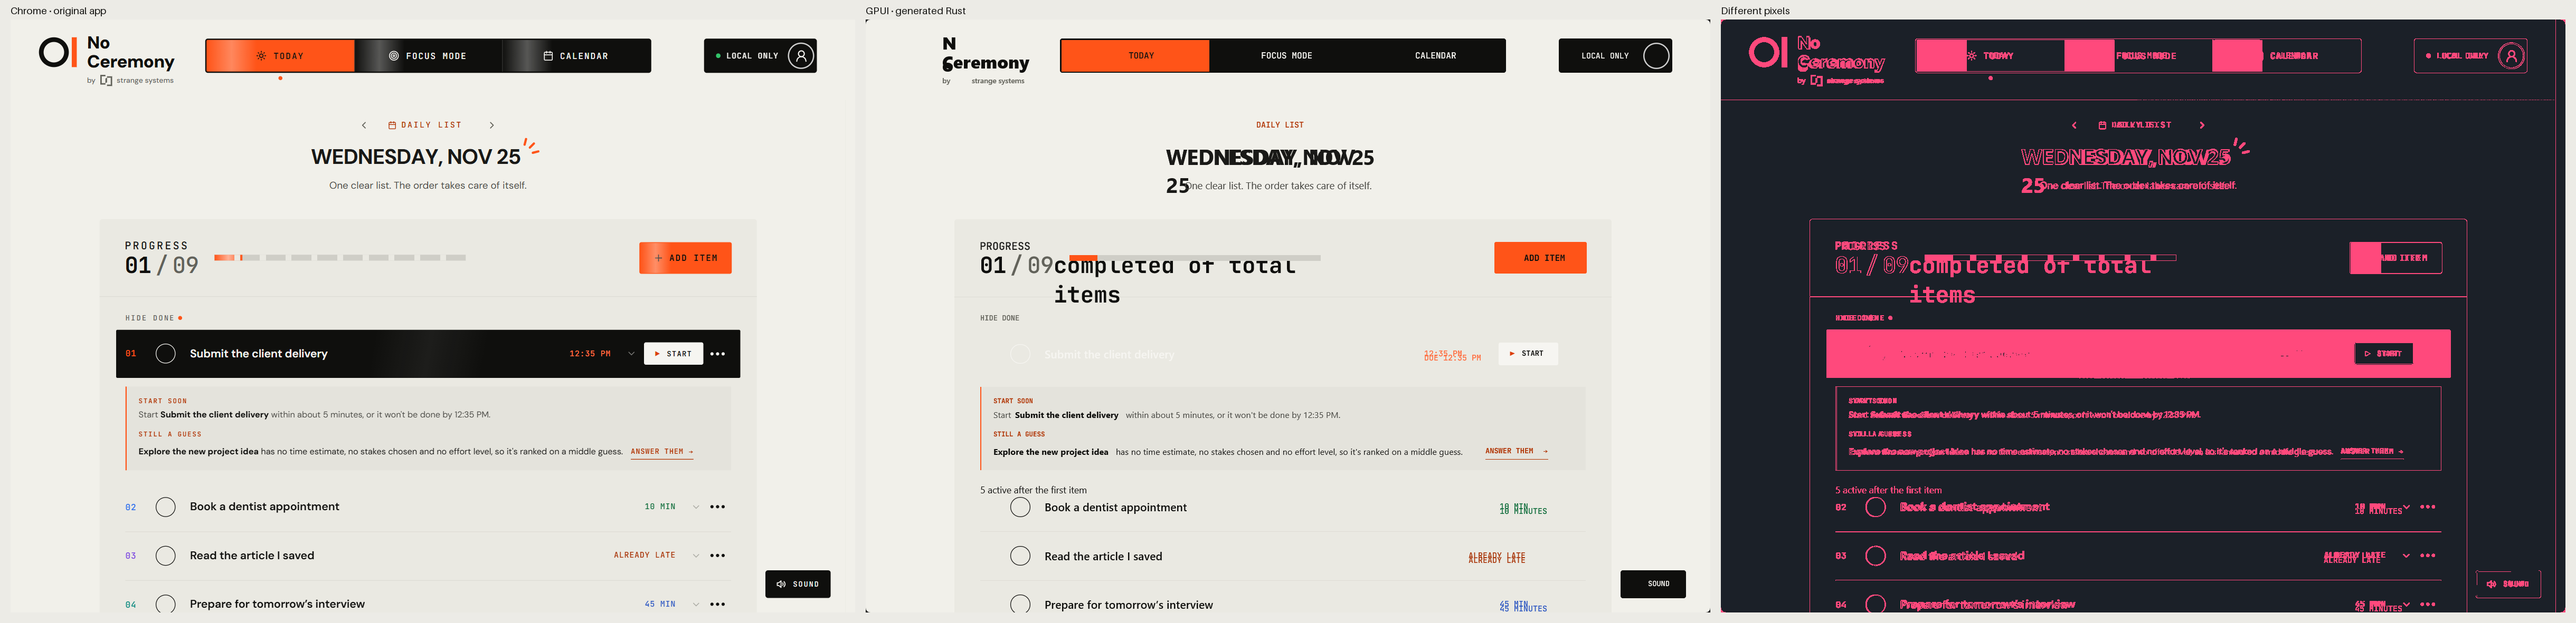
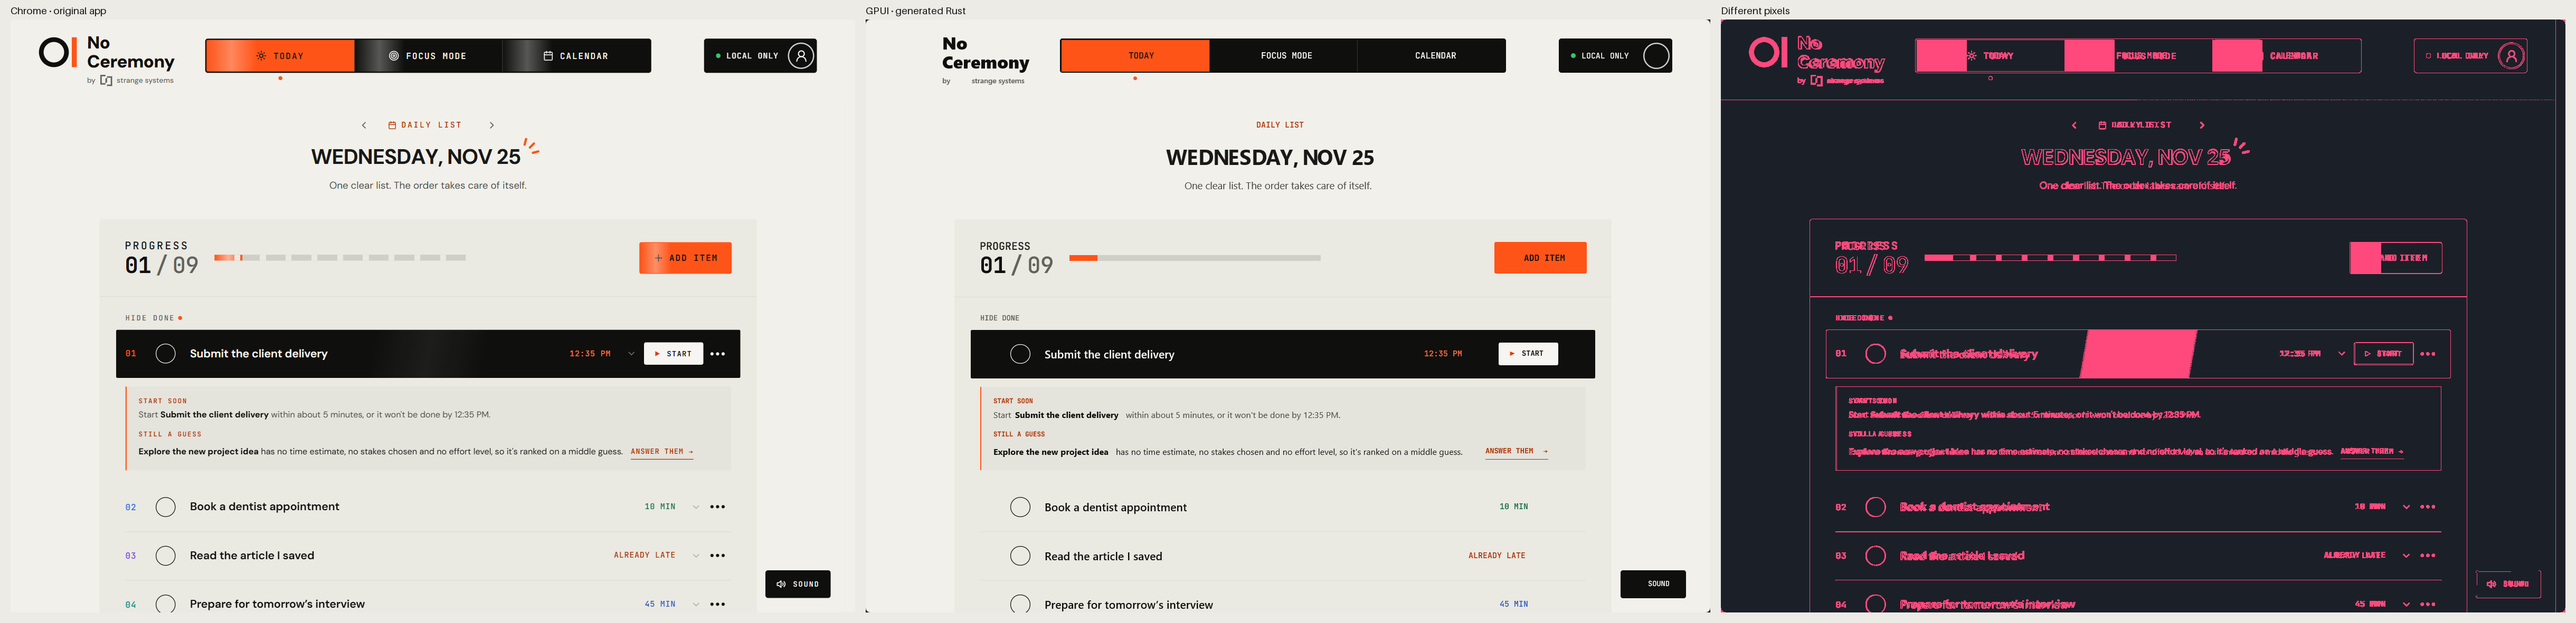
ISS-11: Preserve fully clipped visibility, positioned pseudo-element backgrounds, and single-line text in the actual Today snapshot. Regenerate the native presentation and exact pixel diff.

diff --git a/src/target/gpui.rs b/src/target/gpui.rs
@@ -50,7 +50,9 @@ fn emit_child(
     indent: usize,
     losses: &mut Vec<CapabilityGap>,
 ) {
+    let positioned_text = node.kind == NodeKind::Text && node.layout.position == Position::Absolute;
     if node.kind == NodeKind::Text
+        && !positioned_text
         && (node.typography.is_none()
             || parent.and_then(|p| p.typography.as_ref()) == node.typography.as_ref())
     {
@@ -64,6 +66,9 @@ fn emit_child(
     let style_indent = indent + 8;
     let mut method = |call: &str| writeln!(rust, "{:style_indent$}.{call}", "").unwrap();
     emit_layout(node, parent, &mut method, losses);
+    if positioned_text {
+        method("whitespace_nowrap()");
+    }
     if let Some(color) = &node.paint.background_color {
         emit_color(
             node,

diff --git a/fixtures/noceremony-today/README.md b/fixtures/noceremony-today/README.md
@@ -31,7 +31,7 @@ check and a pixel comparison answer separate questions.
 
 The adjacent `source.html` and `source.css` are a reduced compiler diagnostics
 case. Their Rust test checks text order and reports unsupported CSS Grid. The
-native conversion and visual comparison are pending.
+direct responsive conversion is pending.
 
 ## Compile the real app's fixed browser frame
 
@@ -48,10 +48,25 @@ loads the sample day. Browser layout determines the fixed coordinates. GPUI
 receives native rectangles, borders, and text. The reference PNG is saved
 separately and is never passed to the generator. `losses.json` identifies
 unrepresented CSS effects and elements by DOM path, including the SVG artwork
-and layered backgrounds. Downloaded font files are collected locally for a
+and gradient fills. Downloaded font files are collected locally for a
 native host to load.
 
 The direct source compiler currently stops at the bare `crossorigin` attribute
 in noceremony's original `index.html`. The browser-resolved path allows a visual
 comparison for one viewport while work on direct, responsive conversion remains
 open.
+
+## Compare Chrome and GPUI on Windows
+
+With the pinned app running locally, install Pillow, windows-capture 2.0.1,
+FontTools and Brotli for Python, then run:
+
+```text
+python fixtures/noceremony-today/compare_windows.py <path-to-noceremony>
+```
+
+[Comparison image](comparison.png) shows the original browser frame, the native
+GPUI capture, and all changed RGB pixels in pink. [The report](comparison.json)
+records the exact count and source paths for remaining losses. The native
+preview reproduces the dark first task plate and excludes CSS-clipped text.
+SVGs, gradient fills, letter spacing, and text rasterization still differ.
